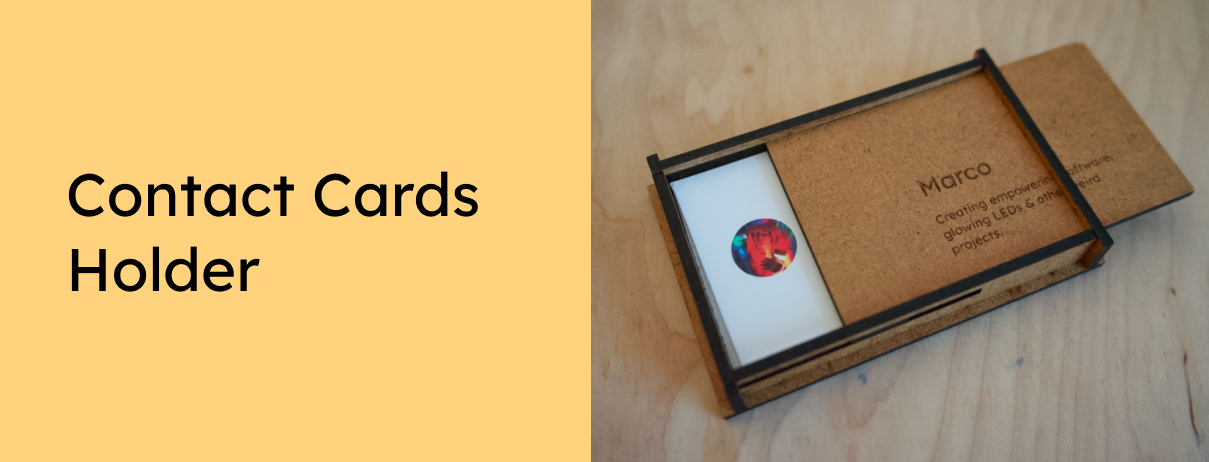
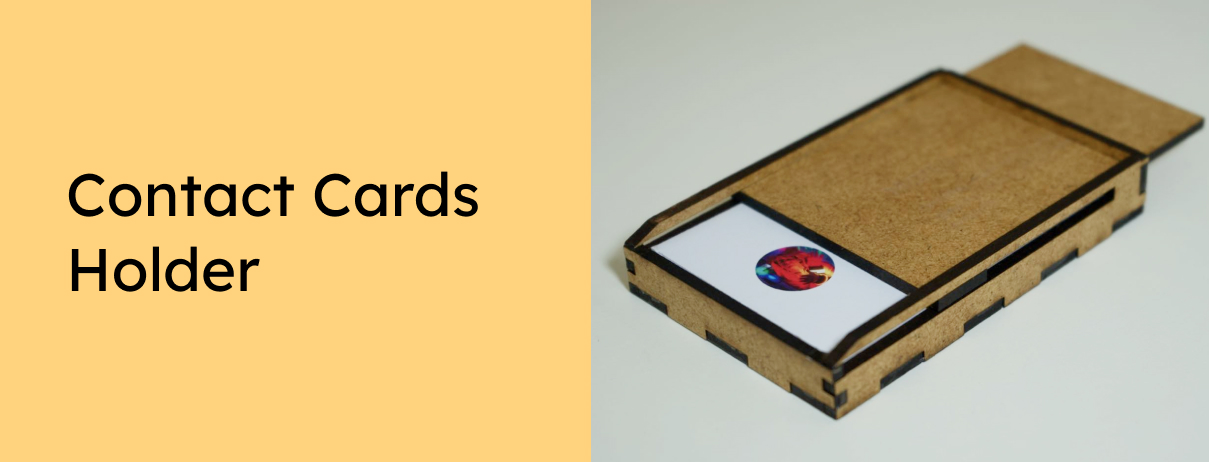
updated to v2 with more compact design

diff --git a/README.md b/README.md
@@ -7,4 +7,4 @@ Want to support the development and stay updated?
 <a href="https://www.patreon.com/bePatron?u=24983231"><img alt="Become a Patreon" src="images/patreon_button.svg"></a> <a href="https://liberapay.com/glowingkitty/donate"><img alt="Donate using Liberapay" src="https://liberapay.com/assets/widgets/donate.svg"></a>
 
 ## Instrutions
-Lasercut the contactcards_holder.plf or the files inside the "lasercutter files" folder on 3mm thick MDF plates - and connect them like in the 3D model here: [https://www.tinkercad.com/things/c4U76DiQ6Cv](https://www.tinkercad.com/things/c4U76DiQ6Cv)
+Lasercut the contactcards_holder.plf or the files inside the "lasercutter files" folder on 3mm thick MDF plates - and connect them like in the 3D model here + glue them together: [https://www.tinkercad.com/things/c4U76DiQ6Cv](https://www.tinkercad.com/things/c4U76DiQ6Cv)
